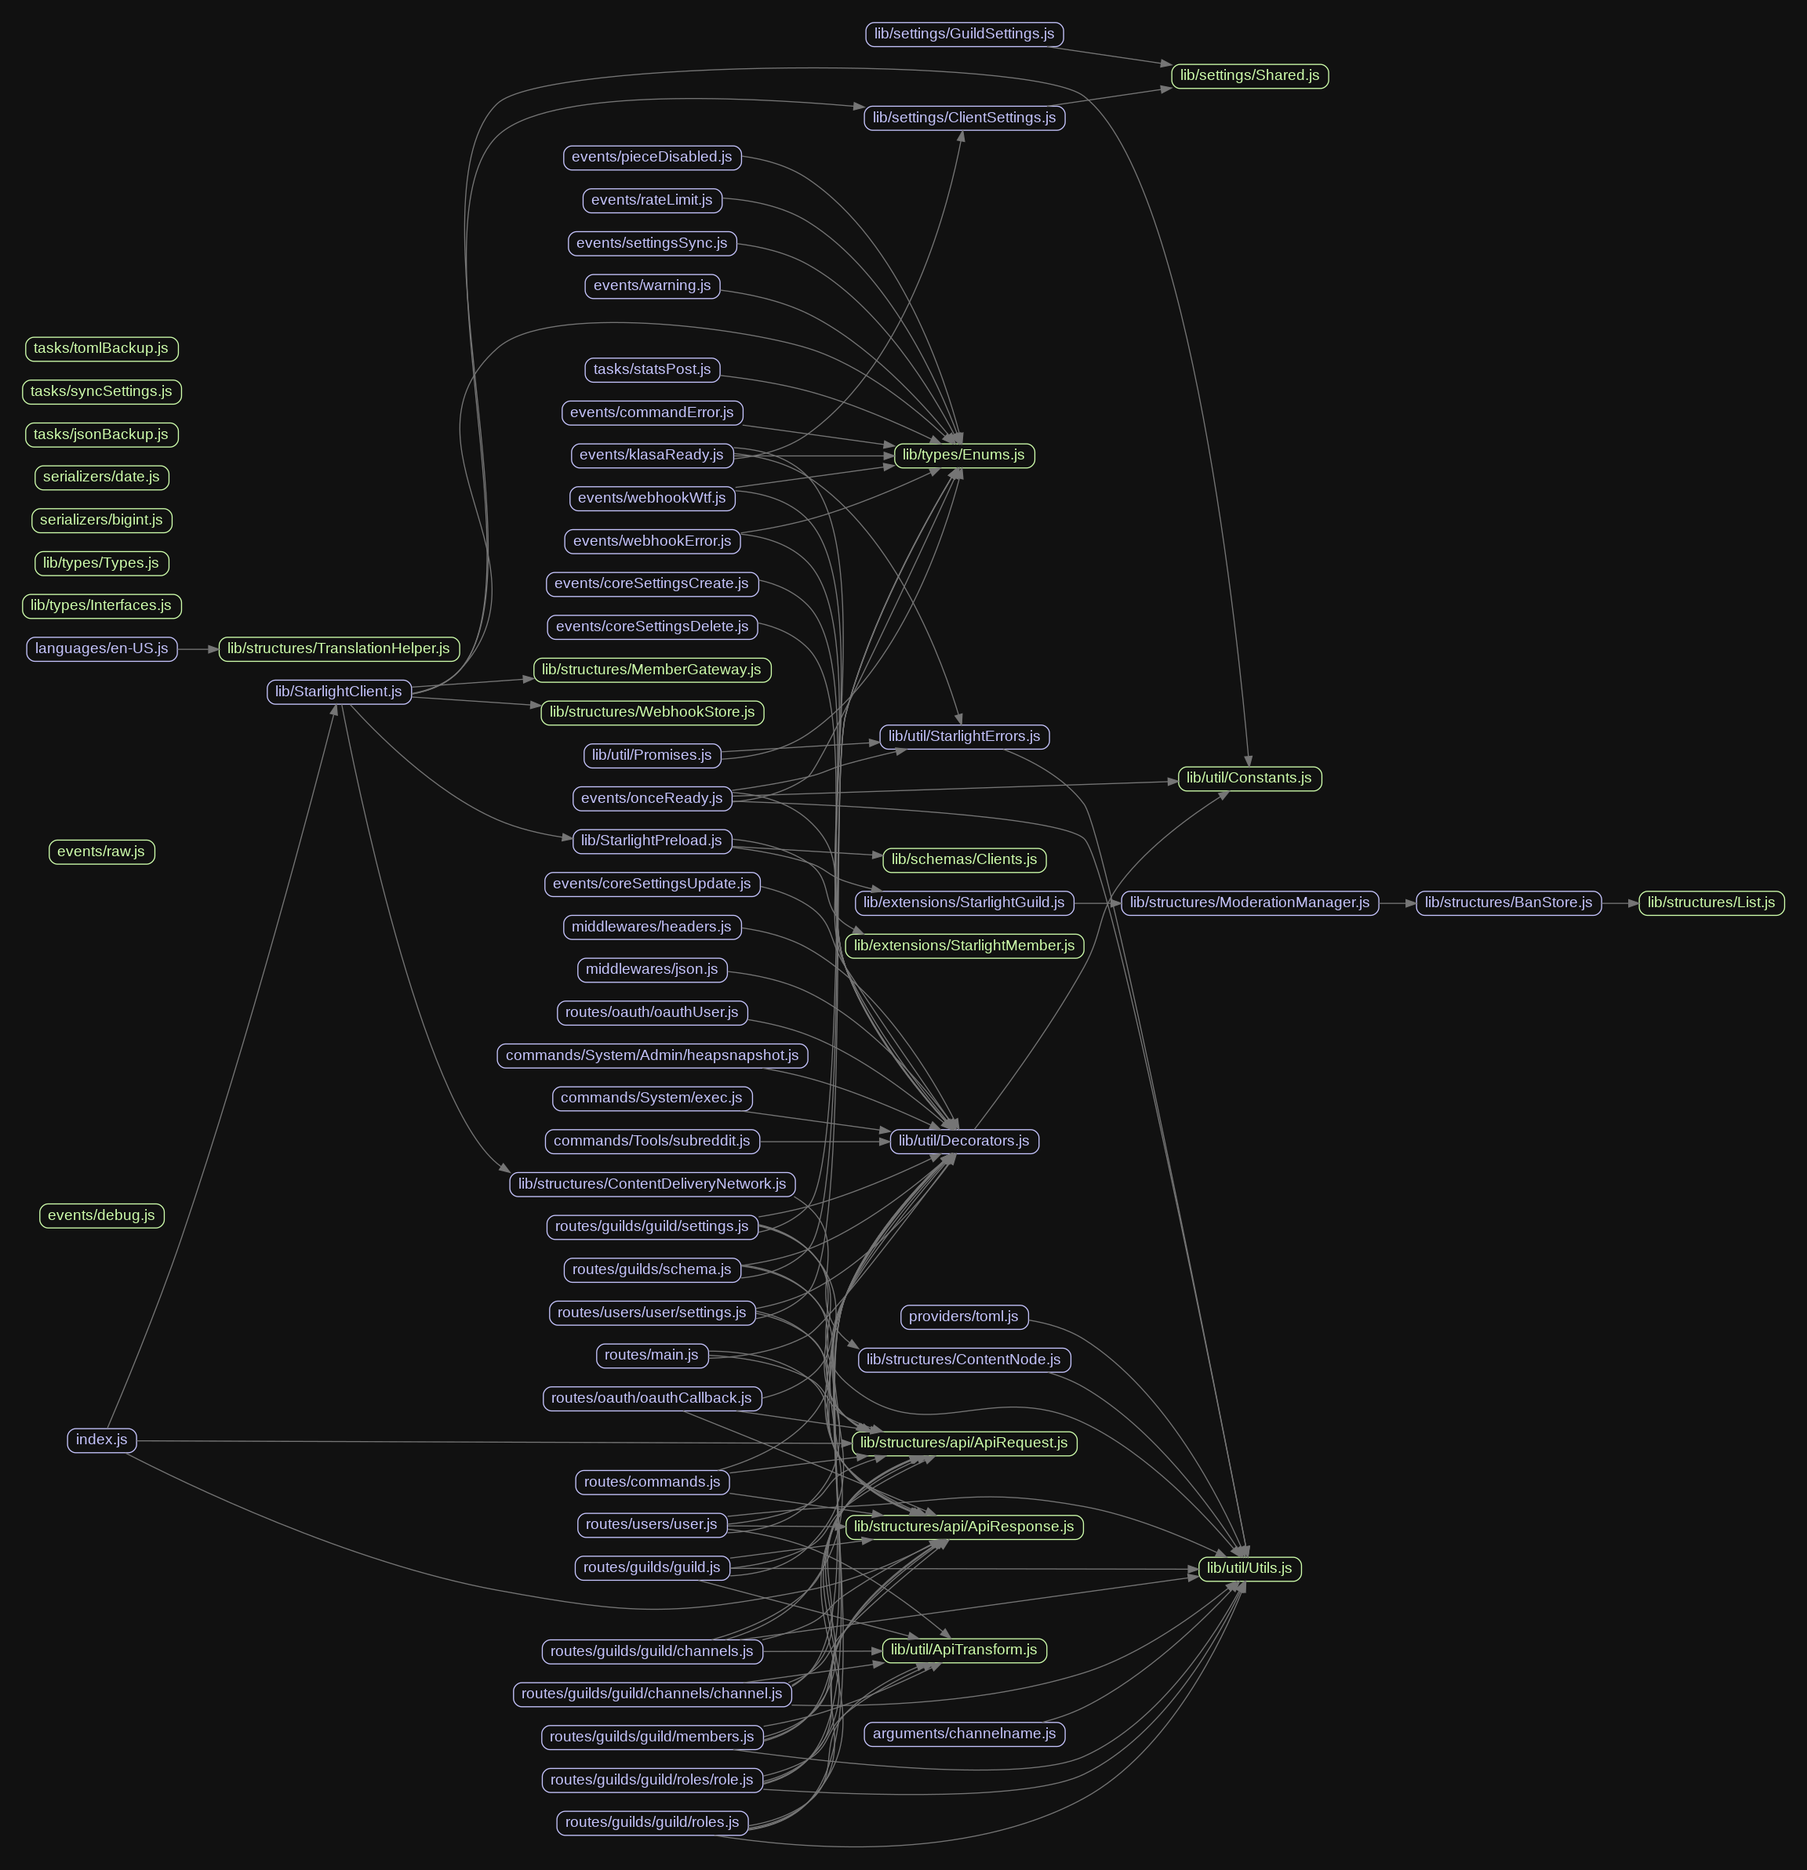
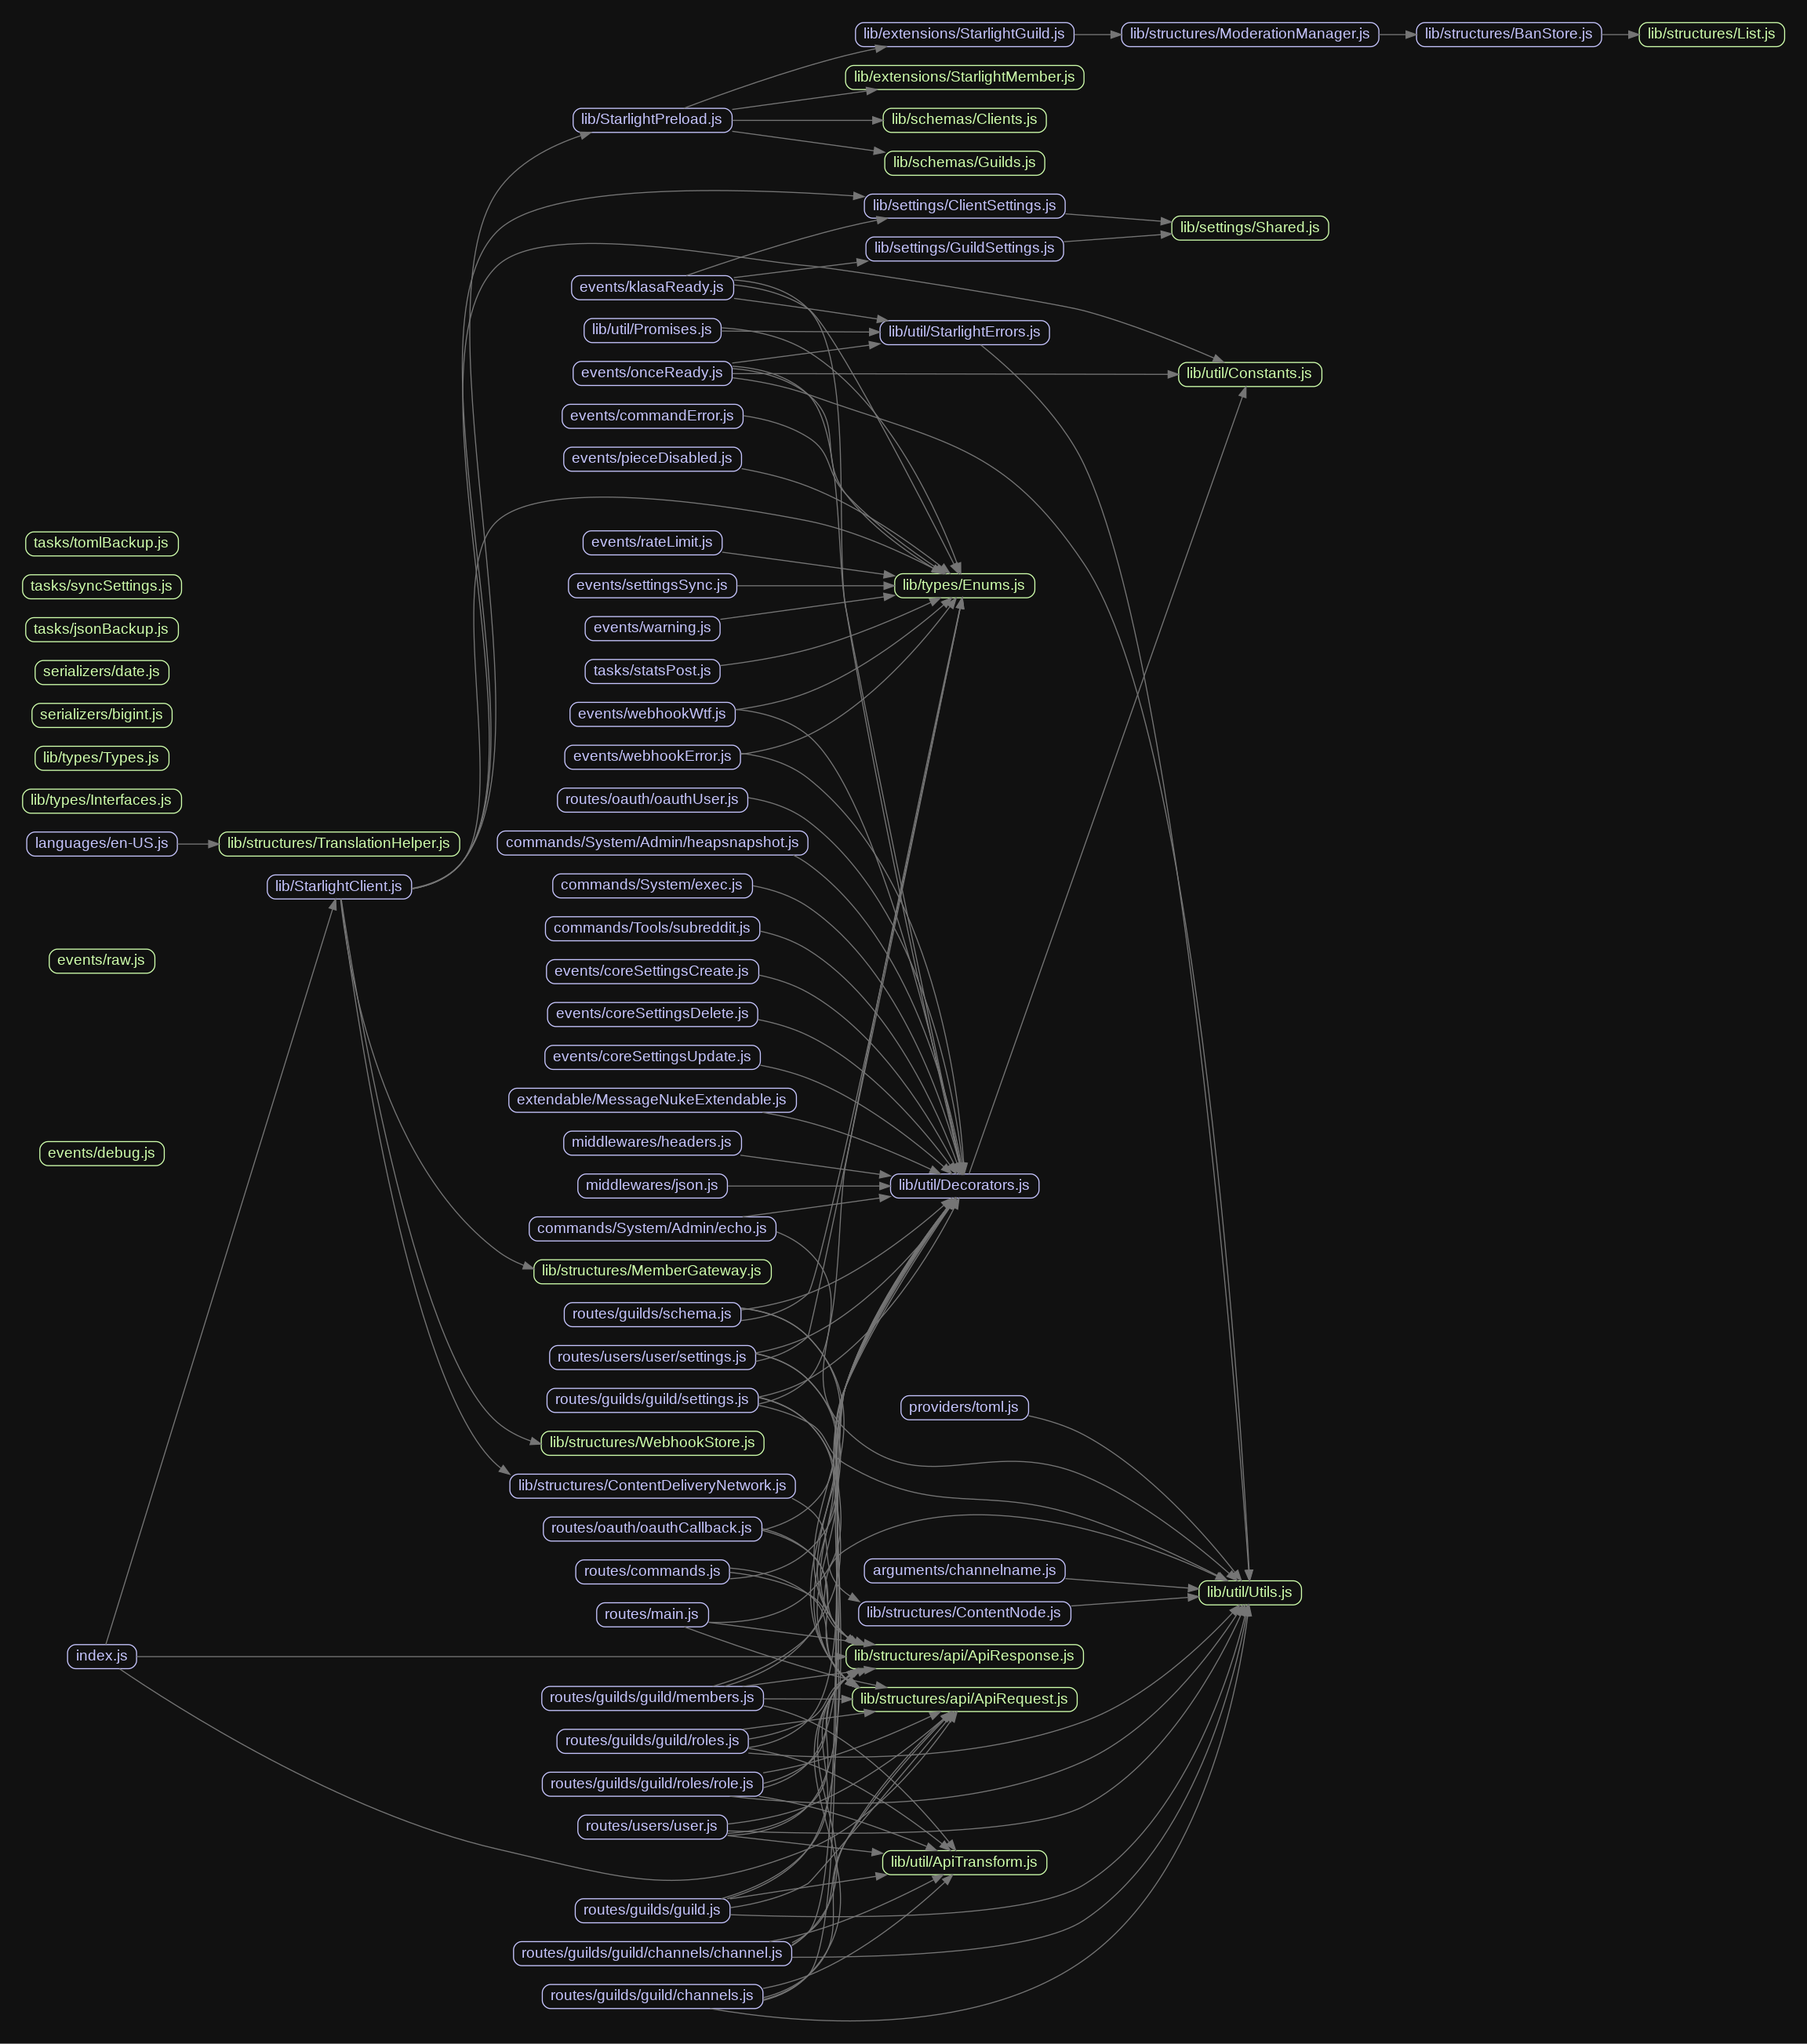
src: add more guild settings

diff --git a/src/commands/System/Admin/echo.ts b/src/commands/System/Admin/echo.ts
@@ -1,0 +1,34 @@
+import { Command, CommandOptions, Language, KlasaMessage } from 'klasa'
+import { ApplyOptions } from '../../../lib/util/Decorators';
+import { TextChannel, MessageOptions } from 'discord.js';
+import { noop } from '../../../lib/util/Utils';
+
+@ApplyOptions<CommandOptions>({
+    aliases: ['talk'],
+    description: (lang: Language): string => lang.get('COMMAND_ECHO_DESCRIPTION'),
+    extendedHelp: (lang: Language): string => lang.get('COMMAND_ECHO_EXTENDED'),
+    guarded: true,
+    permissionLevel: 10,
+    usage: '[channel:channel] [message:string] [...]',
+    usageDelim: ' '
+})
+export default class extends Command {
+    public async run(message: KlasaMessage, [channel = message.channel as TextChannel, ...content]: [TextChannel?, ...string[]]): Promise<KlasaMessage> {
+        if (message.deletable) message.nuke().catch(noop);
+
+        const attachment = message.attachments.size ? message.attachments.first()!.url : null;
+        const mesContent = content.length ? content.join(' ') : '';
+
+        if (!mesContent && !attachment) {
+            throw "You haven't given me anything to send, please try again.";
+        }
+
+        const options: MessageOptions = {};
+        if (attachment) options.files = [{ attachment }];
+
+        await channel.send(mesContent, options);
+        if (channel !== message.channel) await message.send(`Message successfully sent to ${channel}`);
+
+        return message;
+    }
+}

diff --git a/src/events/klasaReady.ts b/src/events/klasaReady.ts
@@ -4,6 +4,7 @@ import { ClientSettings } from '../lib/settings/ClientSettings';
 import { Events } from '../lib/types/Enums';
 import { ApplyOptions } from '../lib/util/Decorators';
 import { StarlightError } from '../lib/util/StarlightErrors';
+import { GuildSettings } from '../lib/settings/GuildSettings';
 const backupData = { folder: './backup/' };
 
 const tasks: [string, string, ScheduledTaskOptions?][] = [
@@ -31,6 +32,11 @@ export default class extends Event {
 		for (const task of tasks) {
 			await this.ensureTask(task);
 		}
+
+		for (const guild of this.client.guilds.values()) {
+			await guild.settings.update(GuildSettings.Owner, guild.ownerID, { throwOnError: true });
+		}
+
 		this.client.emit(Events.Log, `[READY] ${this.client.user!.username} initialization complete.`);
 	}
 

diff --git a/src/extendables/MessageNukeExtendable.ts b/src/extendables/MessageNukeExtendable.ts
@@ -1,0 +1,25 @@
+import { Message } from 'discord.js'
+import { Extendable, ExtendableOptions, util } from 'klasa'
+import { ApplyOptions } from '../lib/util/Decorators'
+
+@ApplyOptions<ExtendableOptions>({
+    appliesTo: [Message]
+})
+export default class extends Extendable {
+    public async nuke(this: Message, time = 0): Promise<Message> {
+        if (time === 0) return nuke(this);
+
+        const count = this.edits.length;
+        await util.sleep(time);
+        return !this.deleted && this.edits.length === count ? nuke(this) : this;
+    }
+}
+
+async function nuke(message: Message): Promise<Message> {
+    try {
+        return await message.delete();
+    } catch (error) {
+        if (error.code === 10008) return message;
+        throw error;
+    }
+}

diff --git a/src/events/guildOwnerUpdate.ts b/src/events/guildOwnerUpdate.ts
@@ -1,0 +1,14 @@
+import { Event, EventOptions, KlasaGuild } from 'klasa';
+import { ApplyOptions } from '../lib/util/Decorators';
+import { GuildSettings } from '../lib/settings/GuildSettings';
+
+@ApplyOptions<EventOptions>({
+    event: 'guildUpdate'
+})
+export default class extends Event {
+    public async run(oldGuild: KlasaGuild, newGuild: KlasaGuild): Promise<void> {
+        if (oldGuild.ownerID === newGuild.ownerID) return;
+
+        await newGuild.settings.update(GuildSettings.Owner, newGuild.ownerID, { throwOnError: true });
+    }
+}

diff --git a/src/lib/StarlightPreload.ts b/src/lib/StarlightPreload.ts
@@ -4,6 +4,7 @@ import { Structures } from 'discord.js';
 import { StarlightMember } from './extensions/StarlightMember';
 import { StarlightGuild } from './extensions/StarlightGuild';
 import './schemas/Clients';
+import './schemas/Guilds';
 
 Structures.extend('GuildMember', (): typeof StarlightMember => StarlightMember);
 Structures.extend('Guild', (): typeof StarlightGuild => StarlightGuild);

diff --git a/src/lib/schemas/Guilds.ts b/src/lib/schemas/Guilds.ts
@@ -1,0 +1,6 @@
+import { Client } from 'klasa';
+
+export default Client.defaultGuildSchema
+	.add('prefix', 'string', { filter: (_, value: string): boolean => value.length > 10 })
+	.add('owner', 'User', { configurable: false })
+	.add('commandUses', 'Integer', { default: 0, configurable: false });

diff --git a/src/lib/schemas/Clients.ts b/src/lib/schemas/Clients.ts
@@ -1,4 +1,5 @@
 import { Client } from 'klasa';
 
 export default Client.defaultClientSchema
-	.add('owners', 'User', { array: true });
+	.add('owners', 'User', { array: true })
+	.add('commandUses', 'Integer', { default: 0, configurable: false });

diff --git a/src/lib/structures/ContentDeliveryNetwork.ts b/src/lib/structures/ContentDeliveryNetwork.ts
@@ -31,6 +31,7 @@ export class ContentDeliveryNetwork extends Collection<string, ContentNode> {
 	}
 
 	public acquire(url: string): ContentNode {
+		url = url.toLowerCase();
 		return this.get(url) || this.create(url);
 	}
 

diff --git a/src/lib/types/augments.d.ts b/src/lib/types/augments.d.ts
@@ -25,6 +25,10 @@ declare module 'discord.js' {
 		readonly bans: BanStore;
 	}
 
+	interface Message {
+		nuke(time?: number): Promise<Message>;
+	}
+
 	interface ClientOptions {
 		cdnSweepInterval?: number;
 	}

diff --git a/src/lib/StarlightClient.ts b/src/lib/StarlightClient.ts
@@ -53,6 +53,7 @@ export class StarlightClient extends Klasa.Client {
 	}
 
 	public static defaultMemberSchema: Klasa.Schema = new Klasa.Schema();
+
 }
 
 StarlightClient.use(Client);

diff --git a/src/lib/settings/GuildSettings.ts b/src/lib/settings/GuildSettings.ts
@@ -4,4 +4,5 @@ import { T } from './Shared';
 
 export namespace GuildSettings {
 	export const Prefix = T<string>('prefix');
+	export const Owner = T<string>('owner');
 }
